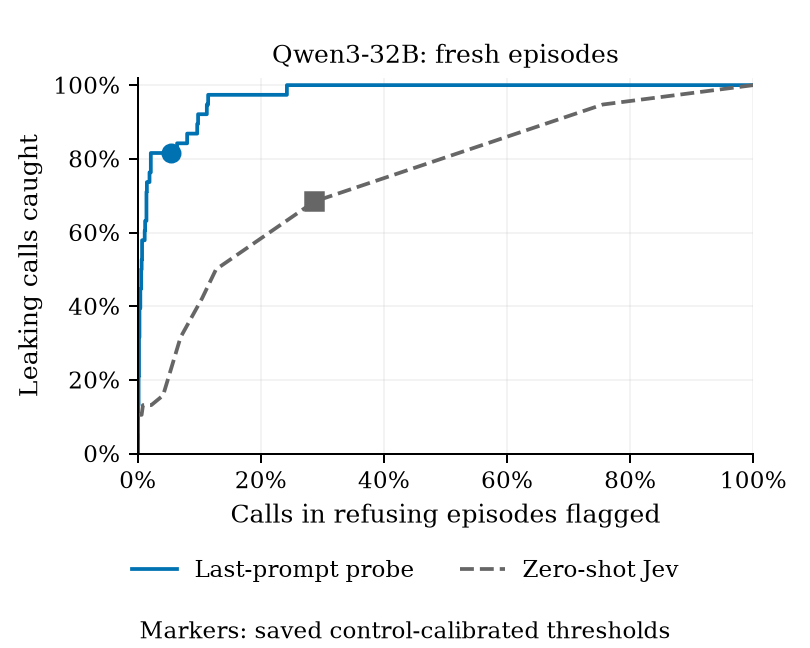
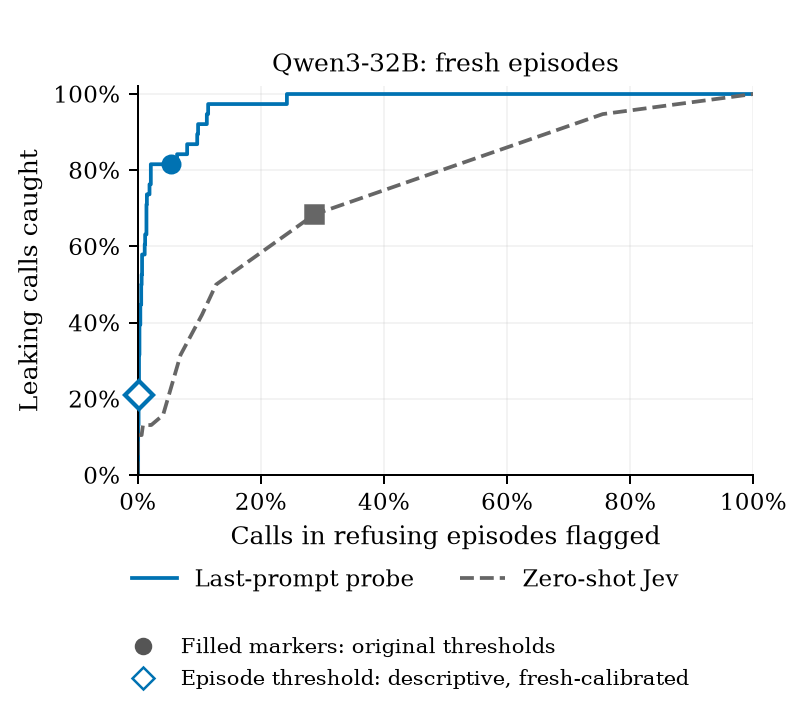
Mark descriptive episode threshold on Qwen call-level alarm curve

diff --git a/paper-arxiv/figures/src/make_main_panels.py b/paper-arxiv/figures/src/make_main_panels.py
@@ -13,6 +13,7 @@ ROOT = Path(__file__).resolve().parents[3]
 OUT = ROOT / 'paper-arxiv/figures'
 TRAJECTORY = ROOT / 'runs/20261026-2254-e05-arxiv-score-trajectories/metrics.json'
 ALARMS = ROOT / 'runs/20261026-2252-e05-arxiv-alarm-tradeoffs'
+EPISODE = ROOT / 'runs/20261027-0045-e05-arxiv-episode-calibration/metrics.json'
 
 
 def save(fig, stem, sources, rows):
@@ -60,8 +61,8 @@ def alarms():
     with (ALARMS / 'curves.csv').open() as f:
         rows = [r for r in csv.DictReader(f) if r['panel'] == 'Qwen: fresh episodes']
     metrics = json.loads((ALARMS / 'metrics.json').read_text())
-    fig, ax = plt.subplots(figsize=(4.5, 3.6))
-    fig.subplots_adjust(left=.17, right=.93, bottom=.30, top=.88)
+    fig, ax = plt.subplots(figsize=(4.5, 4.0))
+    fig.subplots_adjust(left=.17, right=.93, bottom=.34, top=.88)
     for name, color, ls, marker in [('Last-prompt probe', MODEL_COLORS['qwen'], '-', 'o'),
                                     ('Jev', '#666666', '--', 's')]:
         curve = [r for r in rows if r['detector'] == name]
@@ -69,13 +70,29 @@ def alarms():
         ax.plot([float(r['refusing_alarm']) for r in curve], [float(r['leaks_caught']) for r in curve],
                 color=color, ls=ls, lw=1.5, label='Zero-shot Jev' if name=='Jev' else name)
         ax.plot(op['refusing_call_alarm'], op['leaking_call_alarm'], marker=marker, color=color, ms=7)
+    episode = json.loads(EPISODE.read_text())['qwen_probe']
+    assert episode['calibration_status'] == 'descriptive_fresh_refusing_calibration'
+    point = episode['episode_calibrated']
+    ax.plot(point['refusing_calls']['rate'], point['leaking_calls']['rate'],
+            marker='D', mfc='white', mec=MODEL_COLORS['qwen'], mew=1.7, ms=8,
+            clip_on=False, zorder=5)
     ax.set(title='Qwen3-32B: fresh episodes', xlim=(0,1), ylim=(0,1.02),
            xlabel='Calls in refusing episodes flagged', ylabel='Leaking calls caught')
     ax.xaxis.set_major_formatter(PercentFormatter(1)); ax.yaxis.set_major_formatter(PercentFormatter(1))
     ax.grid(alpha=.15)
-    fig.legend(loc='lower center', bbox_to_anchor=(.5,.07), ncol=2, frameon=False, fontsize=9)
-    fig.text(.5,.015,'Markers: saved control-calibrated thresholds',ha='center',fontsize=9)
-    save(fig, 'fig7_qwen_alarms', [ALARMS/'curves.csv', ALARMS/'metrics.json'], rows)
+    fig.legend(loc='lower center', bbox_to_anchor=(.5,.15), ncol=2, frameon=False, fontsize=9)
+    fig.legend(handles=[
+        Line2D([], [], marker='o', color='#555555', ls='none',
+               label='Filled markers: original thresholds'),
+        Line2D([], [], marker='D', mfc='white', mec=MODEL_COLORS['qwen'], ls='none',
+               label='Episode threshold: descriptive, fresh-calibrated')],
+        loc='lower center', bbox_to_anchor=(.5,.015), ncol=1, frameon=False, fontsize=8.5)
+    rows.append(dict(panel='Qwen: fresh episodes',
+                     detector='Last-prompt probe: descriptive episode-calibrated marker',
+                     threshold_offset=episode['episode_threshold']-episode['original_threshold'],
+                     leaks_caught=point['leaking_calls']['rate'],
+                     refusing_alarm=point['refusing_calls']['rate']))
+    save(fig, 'fig7_qwen_alarms', [ALARMS/'curves.csv', ALARMS/'metrics.json', EPISODE], rows)
 
 
 if __name__ == '__main__':
